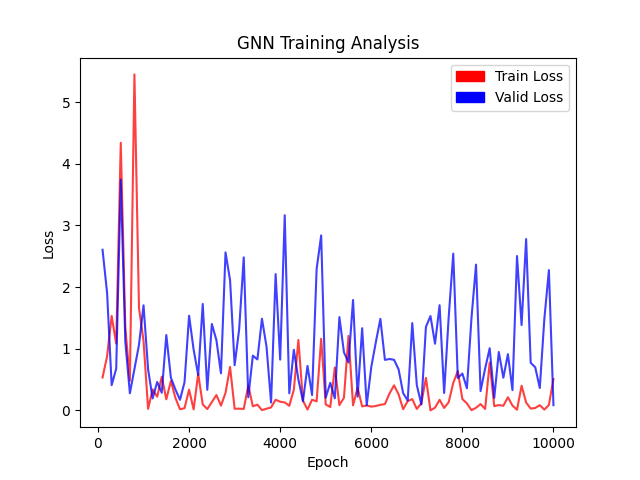
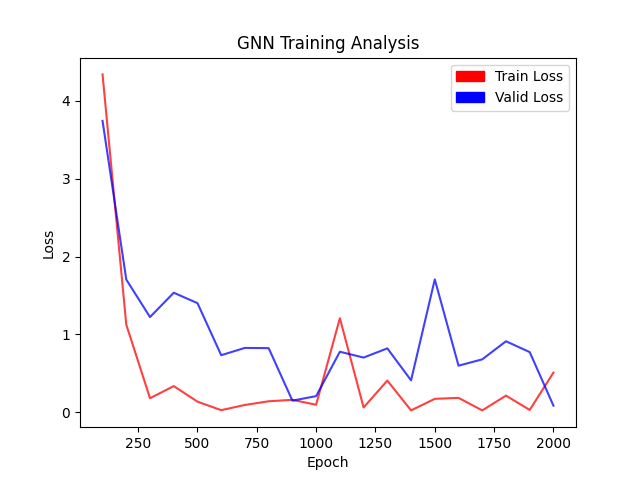
updated code and results

diff --git a/utils.py b/utils.py
@@ -9,7 +9,9 @@ def save_plot(train_loss_list=[], valid_loss_list=[], test_loss_list=[], filter_
         red_patch = mpatches.Patch(color='red', label='Train Loss')
         blue_patch = mpatches.Patch(color='blue', label='Valid Loss')
         x_axis_data = list(range(1,len(train_loss_list)+1))
+        print(x_axis_data)
         x_axis_data = [x * filter_bucket for x in x_axis_data]
+        print(x_axis_data, train_loss_list, valid_loss_list)
         sns.lineplot(x=x_axis_data, y=train_loss_list, color='red', alpha=0.75)
         sns.lineplot(x=x_axis_data, y=valid_loss_list, color='blue', alpha=0.75)
         plt.xlabel("Epoch")
@@ -30,11 +32,11 @@ def save_plot(train_loss_list=[], valid_loss_list=[], test_loss_list=[], filter_
         plt.savefig('./result/testing_analysis.png')
         print("Saved ./result/testing_analysis.png")
 
-def filtered_result(value_list, filter_bucket=100):
+def filtered_result(value_list, filter_bucket=20):
     result = []
     len_value_list = len(value_list)
     collect_at_each = int(len_value_list/filter_bucket)
     for idx in range(1, len_value_list+1):
         if idx % collect_at_each == 0:
             result.append(value_list[idx-1])
-    return result
+    return result, collect_at_each

diff --git a/main.py b/main.py
@@ -6,7 +6,7 @@ import glob
 import numpy as np
 from torch.optim.lr_scheduler import StepLR
 from torch_geometric.datasets import MoleculeNet
-from torch_geometric.data import DataLoader
+from torch_geometric.loader import DataLoader
 from gnn_model import GCN
 from utils import save_plot, filtered_result
 
@@ -113,9 +113,9 @@ if MODE == "train":
             torch.save(model.state_dict(),"./weights/"+str(epoch)+".pt")
             print("Weight saved at epoch: ", epoch)           
             print(f"Epoch {epoch} | Train Loss {train_loss} | Valid Loss {valid_loss}")
-    train_losses = filtered_result(train_losses)
-    valid_losses = filtered_result(valid_losses)
-    save_plot(train_loss_list=train_losses, valid_loss_list=valid_losses)
+    train_losses, collect_at_each = filtered_result(train_losses)
+    valid_losses, collect_at_each = filtered_result(valid_losses)
+    save_plot(train_loss_list=train_losses, valid_loss_list=valid_losses, filter_bucket=collect_at_each)
 
 
 if MODE in ["test", "train"]:
